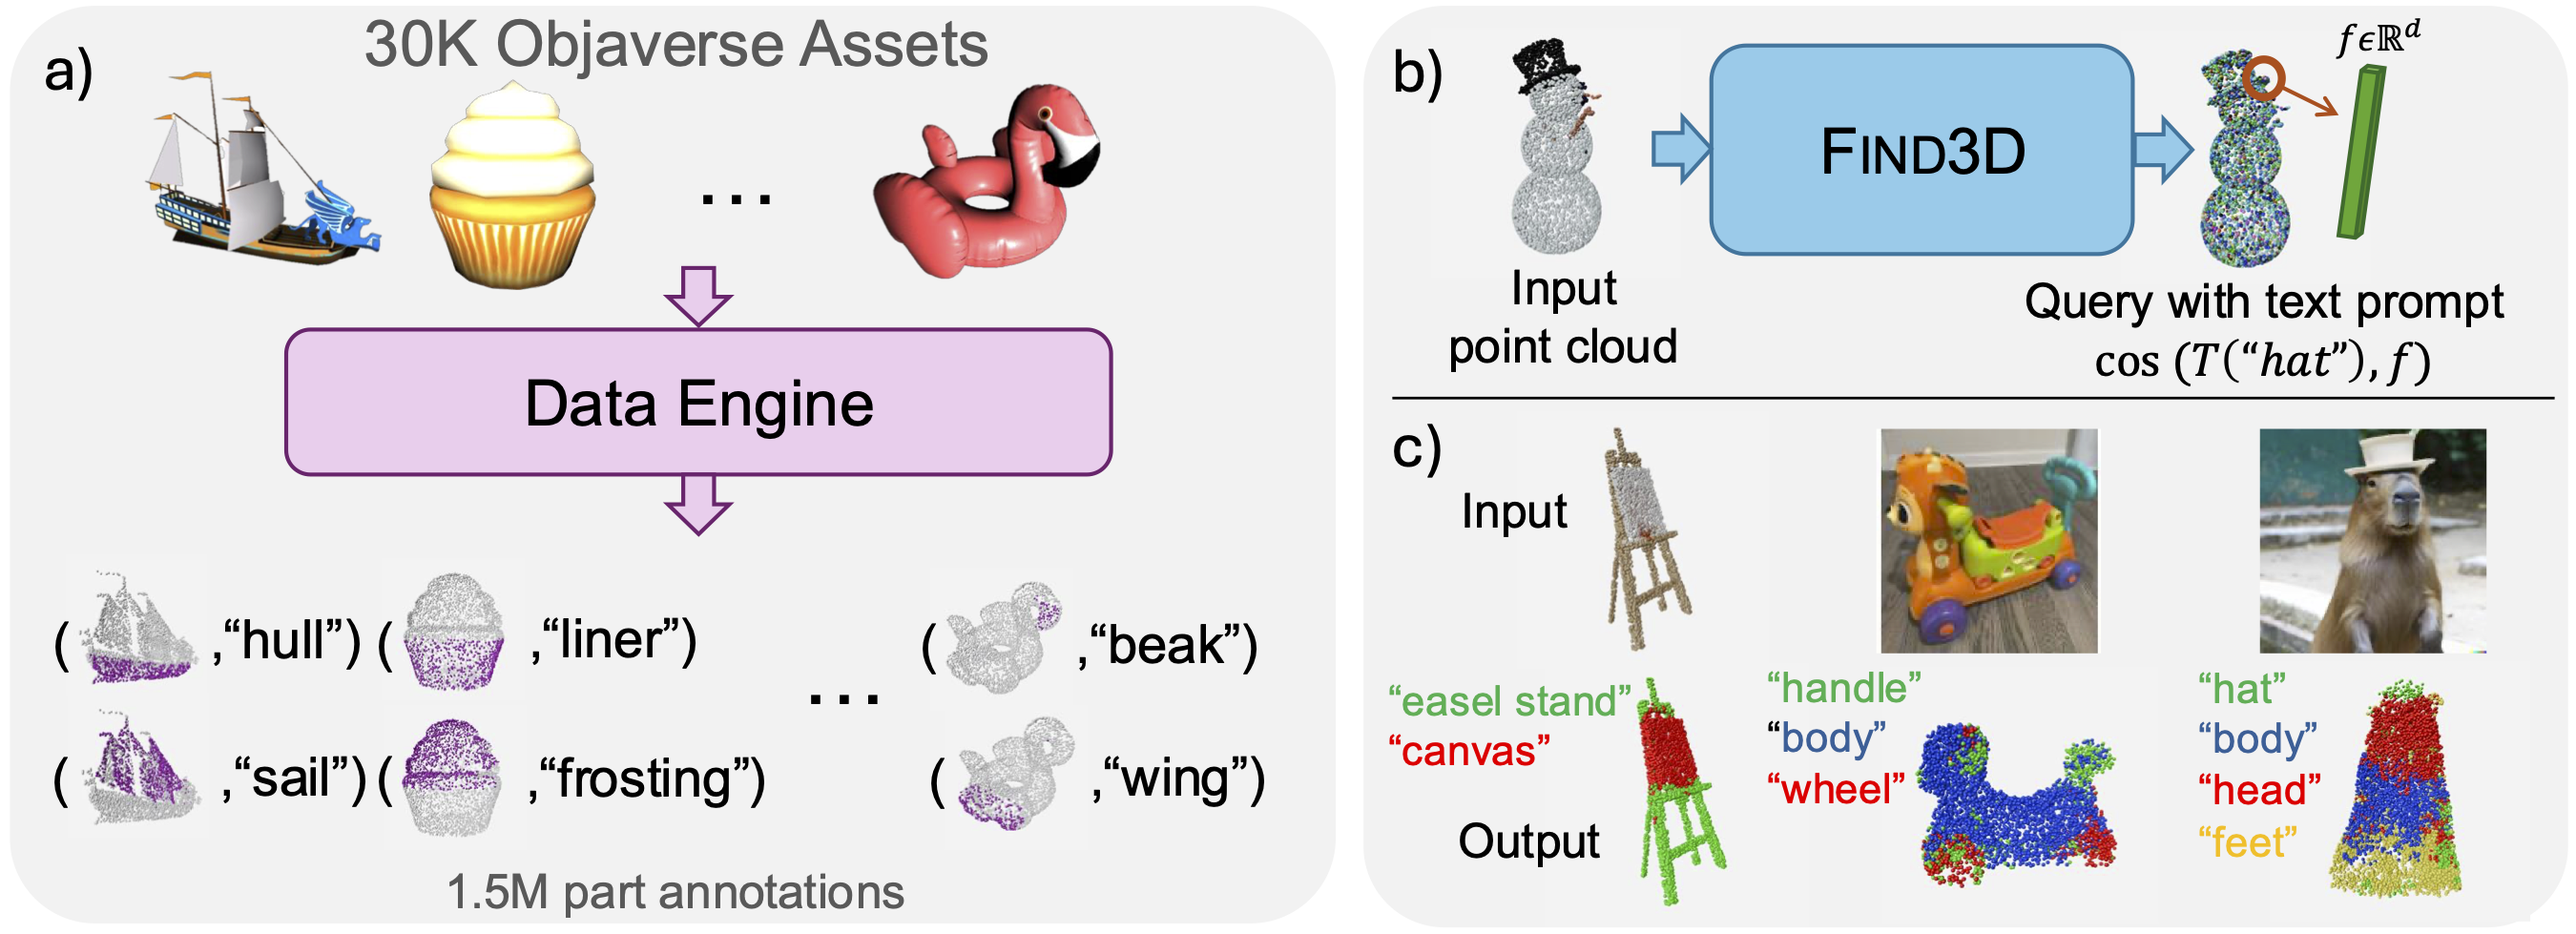
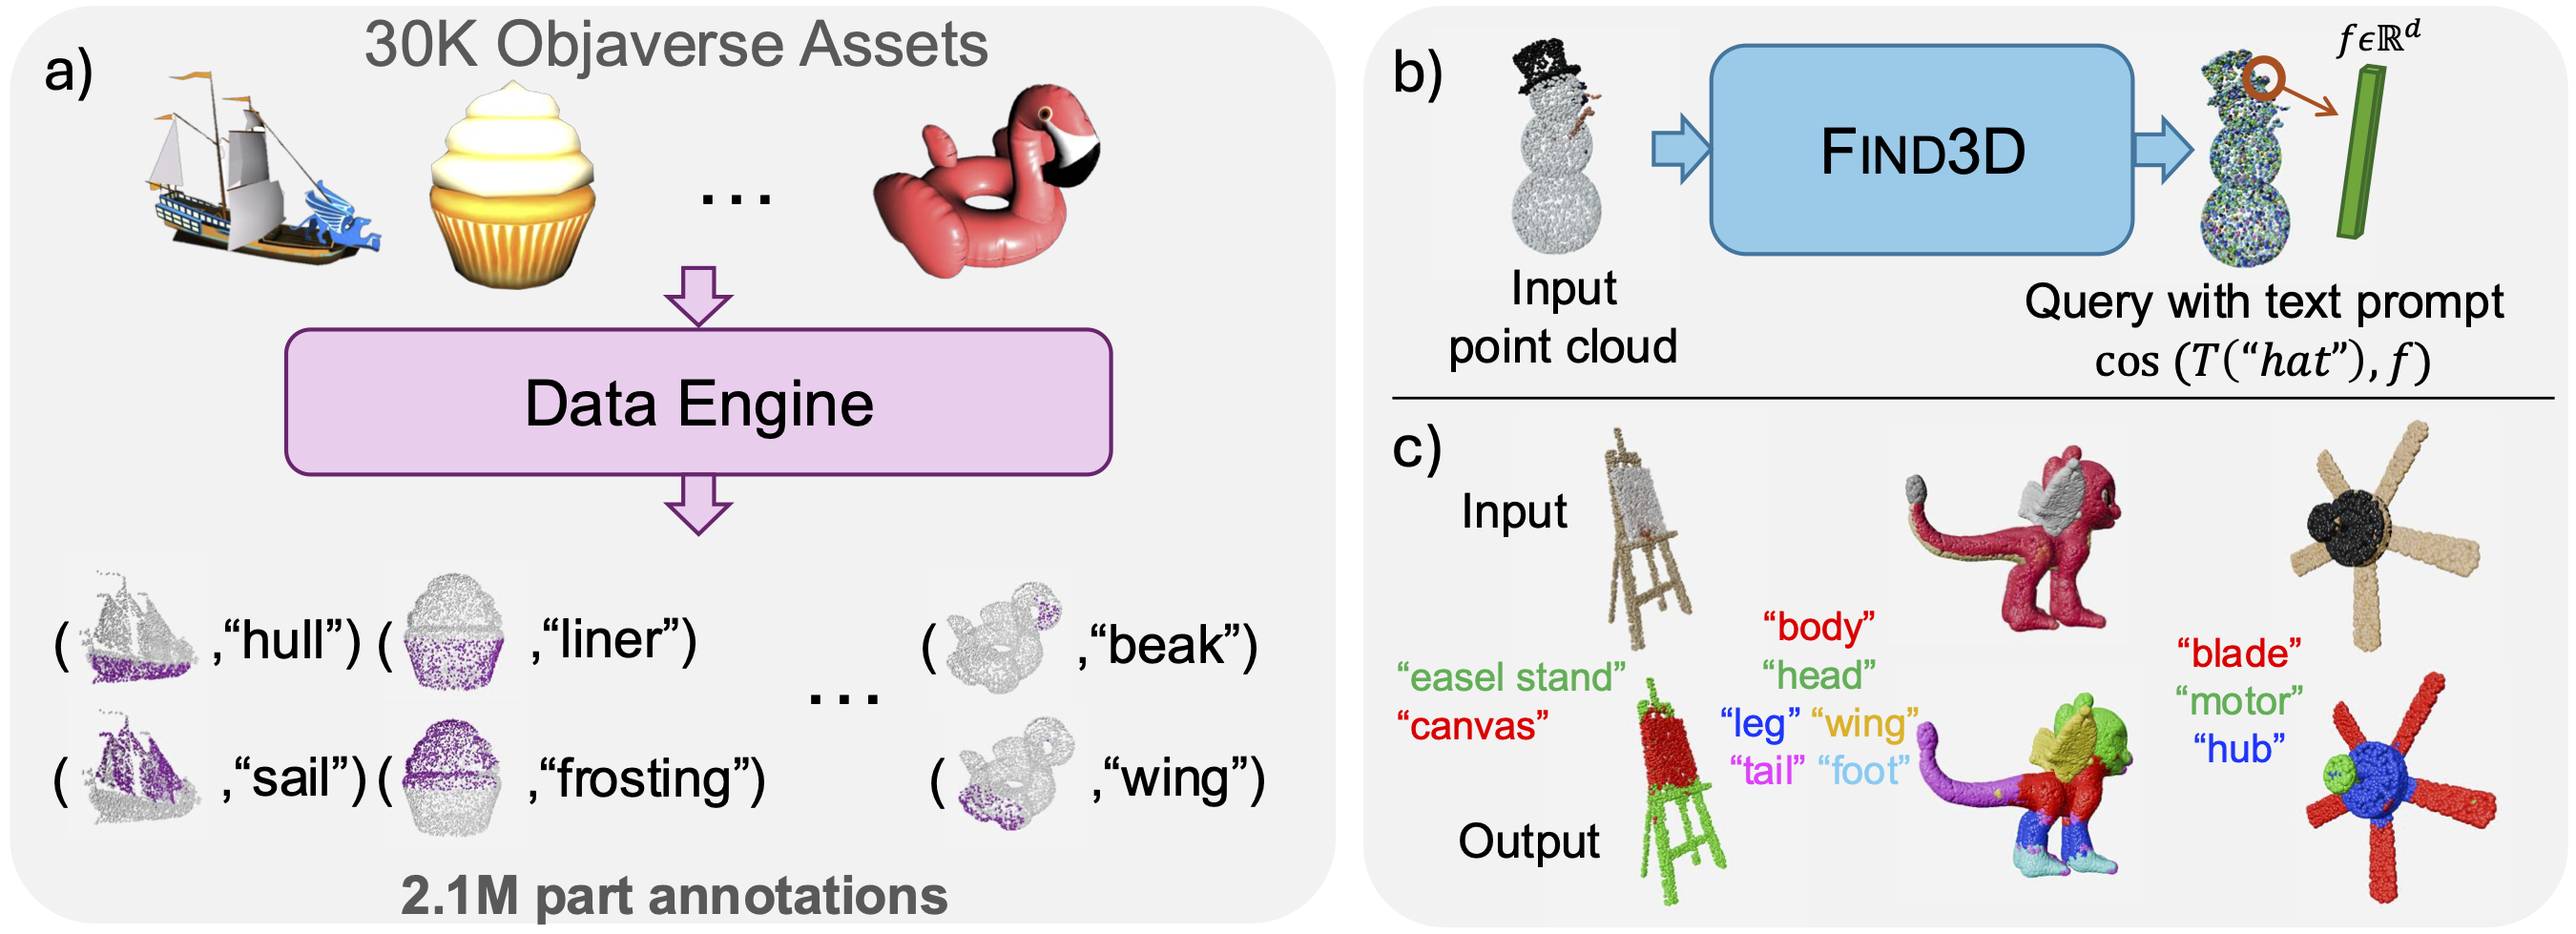
update images

Changed region(s): [[0.6533, 0.4597, 0.9956, 0.9806], [0.5289, 0.7048, 0.6533, 0.8274], [0.1556, 0.9193, 0.3733, 0.9806]]

diff --git a/index.html b/index.html
@@ -119,11 +119,9 @@
       <div class="hero-body">
         <p style="font-size: 20px; color: black;">
           We present <b>Find3D</b>: a method to segment <b>any</b> part in <b>any</b> object based on <b>any</b> text query.
-          Find3D lifts 3D part segmentation into the open world, and even works on in-the-wild 3D constructions from iPhone photos and AI-generated images!
+          Find3D lifts 3D part segmentation into the open world, and even works on in-the-wild 3D constructions from iPhone photos!
         </p>
-        <video id="teaser" autoplay muted loop playsinline height="80%">
-          <source src="static/videos/sidebyside.mp4" type="video/mp4">
-        </video>
+        <img src="static/images/qualitative_new.png" alt="qualitative" width="100%">
       </div>
     </div>
   </section>
@@ -140,9 +138,8 @@
               However, prior works studying this capability are limited to a small number of object types (such as chairs and tables), and only allow queries for a predefined set of parts.
               These methods are called "closed-world" segmentation methods. Our method, called Find3D, lifts 3D part segmentation to the open world - you can query <b>any</b> part in <b>any</b> object based on <b>any</b> text query.
               This is achieved by a powerful data engine which leverages 2D foundation models for creating training data, and a contrastive-based recipe for training a scalable 3D model.
-              Our method allows us to train a model from 30K diverse 3D assets from the internet (from the Objaverse dataset) with 1.5M annotated parts, without any human annotation. 
-              Our model provides strong performance and generalization across multiple datasets, with up to a <b>3&times</b> improvement in mIoU over the next best method.
-              Find3D is also <b>6&times</b> to over <b>300&times</b> faster than existing baselines.
+              Our method allows us to train a model from 2.1 million part annotations and <b>1755&times</b> more unique part times than existing combined! We achieve <b>260%</b>
+              improvement in mIoU and boost speed by <b>6&times</b> to over <b>300&times</b>. We provide a scaling analysis that underscores the impact of our data engine approach.
               To encourage research in general-category open-world 3D part segmentation, we also release a benchmark for general objects and parts.
             </p>
             <img src="static/images/teaser.png" alt="Approach" width="100%">
@@ -164,9 +161,7 @@
             <p style="font-size: 20px; color: black;">
               Our method, called Find3D, works on diverse objects from Objaverse.
             </p>
-            <video id="allours" autoplay muted loop playsinline height="80%">
-              <source src="static/videos/allours.mp4" type="video/mp4">
-            </video>
+            <img src="static/images/qualitative_multiviewobj_website.png" alt="qualitative_ours" width="100%">
           </div>
         </div>
       </div>
@@ -373,26 +368,6 @@
         </div>
       </div>
       <!--ObjaversePart. -->
-    </div>
-  </section>
-
-  <section class="section">
-    <div class="container is-max-desktop">
-      <!-- Approach. -->
-      <div class="columns is-centered has-text-centered">
-        <div class="column is-full-width">
-            <h2 class="title is-3">In the Wild</h2>
-
-          <div class="content has-text-justified">
-            <p style="font-size: 20px; color: black;">
-              Find3D also works on in-the-wild 3D constructions from iPhone photos or AI-generated images, which can be noisy and challenging!
-            </p>
-            <video id="wild" autoplay muted loop playsinline height="80%">
-              <source src="static/videos/wild.mp4" type="video/mp4">
-            </video>
-          </div>
-        </div>
-      </div>
     </div>
   </section>
 
